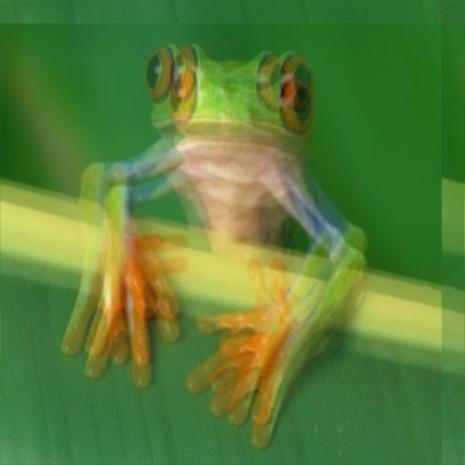
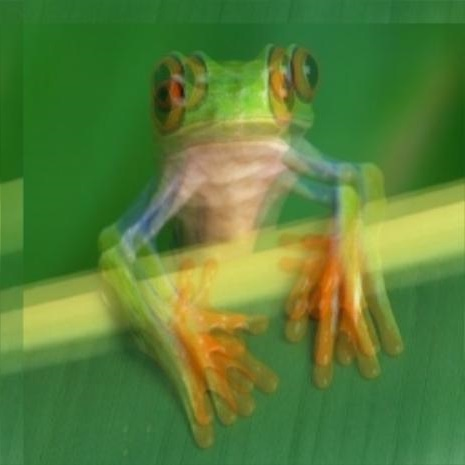
GLSL で画像にフィルタをかけてみるテスト（その２０改3）

diff --git a/cx20/ydPS/index.html b/cx20/ydPS/index.html
@@ -24,12 +24,12 @@ varying vec4 vColor;
 varying vec2 vTextureCoord;
 
 void main(void) {
-    vec2 uv = gl_FragCoord.xy / resolution.xy;
+    vec2 uv = vTextureCoord; // gl_FragCoord.xy / resolution.xy;
 
     float s = sin(time) * 0.05;
-    vec4 c0 = texture2D(texture, -uv);
-    vec4 c1 = texture2D(texture, -uv - vec2(s, 0.0));
-    vec4 c2 = texture2D(texture, -uv - vec2(0.0, s));
+    vec4 c0 = texture2D(texture, uv);
+    vec4 c1 = texture2D(texture, uv - vec2(s, 0.0));
+    vec4 c2 = texture2D(texture, uv - vec2(0.0, s));
     vec4 color = (c0 + c1 + c2) / 3.0;
 
     gl_FragColor = color;
